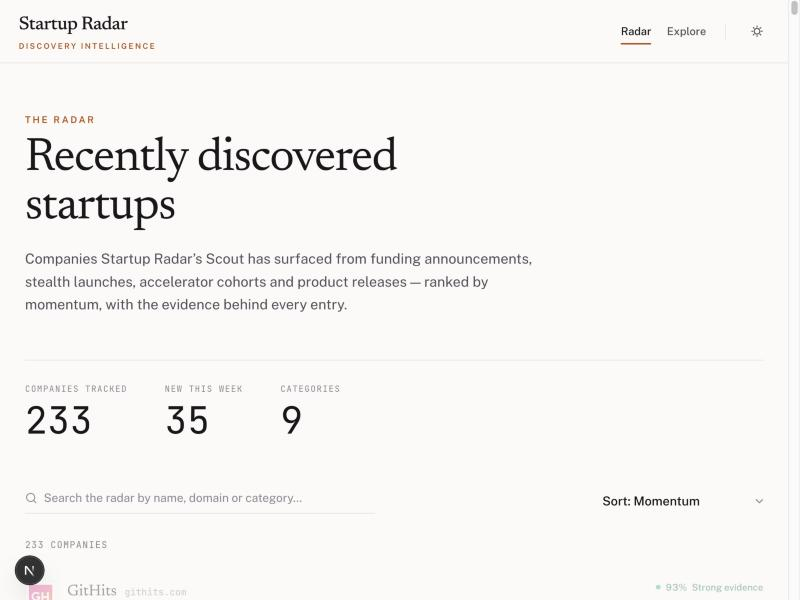
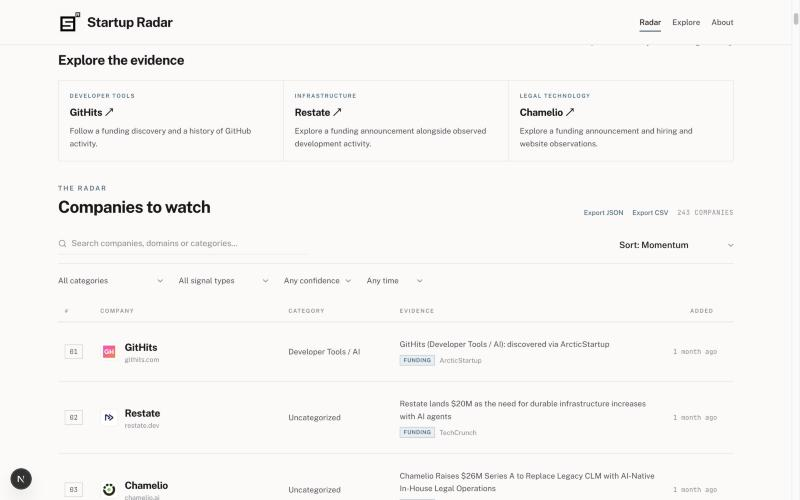
Rewrite README for clarity and confidence; refresh the Radar screenshot
Merges the terser, glossary-driven structure from the latest pass (observation/
signal/Momentum definitions, "what you can explore") with the more specific,
concrete voice from the version written for the Precursor application: the
real numbers behind the deterministic-vs-agentic pivot (~20 min/category,
~$2+ worst-case cost vs a $0.75 ceiling), and the Ande/Travix domain-guessing
mistake stated as fact rather than hedged. Also notes that the same rule
("a wrong domain is worse than a missing company") caught a real, separate
identity mismatch in production this month — ties the anecdote to something
that happened since, not just a one-time story.

Replaced docs/screenshot-radar.jpg — the old one predated the frontend
redesign and no longer matched the live site. New shot is the current Radar
table (filters, evidence column, real companies) at desktop width.

diff --git a/README.md b/README.md
@@ -1,28 +1,55 @@
 # Startup Radar
 
-Startup Radar is a tool I built to discover emerging startups and follow what they do over time. It collects companies from public sources, tracks changes in hiring, GitHub activity, and websites, and puts the evidence in a searchable directory.
+A discovery engine for emerging startups: it finds companies from public sources — funding
+announcements, accelerator cohorts, stealth launches, product releases — before they're widely
+covered, tracks what they do next (hiring, GitHub activity, website changes), and attaches a real
+evidence trail to every claim it makes. No hand-entered data, no fabricated enrichment.
 
-I wanted to explore how an investor might find early signals while building a system that is honest about what it knows. The product is a starting point for research: public sources can be incomplete, company matches can be wrong, and a signal is not an investment recommendation.
+![Startup Radar — the Radar feed](docs/screenshot-radar.jpg)
+
+This is a research tool, not investment advice — public sources can be incomplete, company
+matches can be wrong, and a signal is never a recommendation. See the [Disclaimer](#disclaimer).
 
 ## What you can explore
 
-- **Radar and Explore:** browse companies, search and filter the directory, and sort by momentum or recency.
-- **Company profiles:** see discovery events, observed activity, signals, and available source links in one place.
-- **Methodology and About:** see how the system works and read the decisions and mistakes behind it.
+- **Radar and Explore** — browse the directory, search, filter, and sort by Momentum or recency.
+- **Company profiles** — discovery events, tracked signals, and the real source link behind each one.
+- **Methodology and About** — how the system works, and the decisions (and a mistake) behind it.
 
-An observation is a recorded measurement; a signal is a finding derived from observations. Momentum weights distinct signals by recency. A first observation establishes a baseline, so it shouldn't be mistaken for a change.
+An **observation** is a recorded measurement; a **signal** is a finding derived from comparing
+observations over time. **Momentum** is a recency-weighted count of distinct signals — never a
+hidden score. A company's *first* observation establishes a baseline, not a change — Signal
+Intelligence is explicit about which is which.
 
-## Two things I learned building it
+## Two decisions worth knowing about
 
-**Discovery needed a tighter process.** My first approach used Claude with web search to find and verify companies. A real run took around 20 minutes for one category, and the estimated worst-case cost was over $2 against a $0.75 budget. I replaced that discovery path with source feeds, extraction rules, entity matching, and ranking. The current discovery pipeline does not make LLM calls; a static test checks that boundary. The earlier approach remains in the repository for reference.
+**Deterministic over agentic.** The first version of the discovery engine used one Claude call per
+category — web search and web fetch to both find and verify candidates. It worked, but one category
+took ~20 minutes on a real run, and the worst-case cost per request ran to ~$2+ against a $0.75
+budget ceiling. An open-ended agentic loop can't run daily under a fixed, honest cost ceiling. So
+discovery is now a fully deterministic pipeline — real RSS/directory feeds, rule-based extraction
+and ranking, zero LLM calls anywhere in the path, enforced by a static test. It runs daily,
+unattended, for effectively free. AI is reserved for narrow, bounded judgment calls on evidence the
+pipeline has already surfaced — not for finding the evidence in the first place.
 
-**A matching result is not necessarily the right company.** I once shipped a feature that guessed domains from company names and checked whether the name appeared on the resulting homepage. An audit found two wrong matches among the first ten: Ande matched an unrelated DNA-testing company, and Travix matched an unrelated travel company. The check had confirmed a name collision, not the startup's identity. I reverted the feature. That experience changed how I think about missing data: I'd rather leave a domain unresolved than attach the wrong company to it.
+**A mistake I shipped, caught, and reverted.** A feature once guessed a company's domain from its
+name and verified the guess by checking whether the company's name appeared on the resulting
+homepage. A precision audit found two of the first ten guesses were wrong in a specific, bad way: a
+funded startup called *Ande* matched `ande.com` — actually ANDE, an unrelated forensic DNA-testing
+company. A startup called *Travix* matched `travix.com` — an unrelated 450-employee travel agency.
+Both passed because the real, different company's own homepage naturally contains its own name —
+the check proved a name collision, not an identity match. The feature was reverted completely. The
+rule that came out of it: **a wrong domain is worse than a missing company.** An unresolved match is
+the correct outcome when evidence is thin, not a bug to paper over — a rule a later audit confirmed
+is still worth following: it caught a real, separate identity mismatch in production in November.
 
-The [About page](frontend/src/app/about/page.tsx) goes into more detail on both decisions.
+The full writeup — what I'd do differently if I started over, and why I'm interested in both AI
+operations and evaluating startups — is on the site itself: run it locally (below) and open `/about`.
 
 ## Run the frontend
 
-You'll need Node.js 24 or newer. The frontend can run with a labeled sample dataset without database credentials:
+You'll need Node.js 24 or newer. It runs against a clearly-labeled sample dataset with no database
+credentials needed:
 
 ```bash
 cd frontend
@@ -30,26 +57,54 @@ npm ci
 npm run dev
 ```
 
-Open the local address printed in the terminal. To use your own Supabase data, copy `frontend/.env.local.example` to `frontend/.env.local` and fill in the URL and service-role key. Keep the key server-side and out of version control. See the [frontend README](frontend/README.md) for more detail.
+Open the local address printed in the terminal (usually <http://localhost:3000>). To use your own
+Supabase data, copy `frontend/.env.local.example` to `frontend/.env.local` and set `SUPABASE_URL`
+and `SUPABASE_SERVICE_ROLE_KEY` — both server-only, never exposed to the browser. See
+[`frontend/README.md`](frontend/README.md) for the full setup and structure.
 
-## How it works
+## How it's built
 
-1. Source providers collect public items from RSS, Google News, and accelerator directories.
-2. The discovery pipeline extracts and clusters candidates, resolves identities where it can, and ranks them using rules. Controlled writes add selected companies and discovery events.
-3. Signal collectors revisit companies and record hiring, GitHub, and website observations. Rules turn qualifying changes into signals.
-4. The Next.js frontend reads the resulting data from Supabase and presents it alongside the available evidence.
+```
+Source providers (RSS / Google News / YC / Techstars)
+        │  SourceItem
+        ▼
+Deterministic extraction + prefilter + entity clustering     — regex/heuristic, NO LLM
+        ▼
+Existing-company matching + domain resolution                — read-only against Supabase
+        ▼
+Deterministic ranking (8 weighted, logged components)
+        ▼
+Two-track finalist selection (news / directory)
+        ▼
+Controlled writes — new companies + their initial events only, under hard per-run caps
+        ▼
+Signal Intelligence — hiring (ATS), GitHub, website-structure observers, revisited daily
+```
 
-Scheduled GitHub Actions workflows run discovery and signal collection. The source coverage and matching rules have limits, so results still need review. A failed observation is treated as unknown rather than zero, and website changes require confirmation across observations.
+| Area | What it is |
+|---|---|
+| `src/funnel/` | The deterministic discovery pipeline — extraction, prefiltering, clustering, domain resolution, ranking. Zero LLM calls, enforced by a static guard test. |
+| `src/sources/` | Source providers (RSS feeds, Google News, YC/Techstars directories) and the one shared, polite HTTP fetcher everything goes through. |
+| `src/discovery/` | The one controlled write path for new companies — hard caps, no retries without an idempotency key, "zero writes" is a valid outcome. |
+| `src/signals/` | Hiring/GitHub/website observation, append-only, with a non-negotiable rule: a metric that couldn't be observed is *unknown*, never defaulted to zero. |
+| `src/eval/` | Offline evaluation of the discovery pipeline against hand-labeled recall targets. |
+| `frontend/` | The Next.js product surface — Radar feed, Explore, Company Detail, Methodology, About. Read-only against Supabase; never writes, never calls an LLM. |
+| `.github/workflows/` | The two daily scheduled jobs (discovery, signal observation) that run all of the above unattended. |
 
-The main parts of the repository are:
+A fuller, still-current architecture doc — including the two phases this project went through and
+why Phase 1 (an earlier, Claude-web-search-based discovery approach, kept in `src/main.ts` for
+reference) was replaced — lives in [`CLAUDE.md`](CLAUDE.md).
 
-- `src/sources/` and `src/funnel/`: source collection, extraction, matching, and ranking.
-- `src/discovery/` and `src/signals/`: controlled discovery writes and signal collection.
-- `src/eval/`: offline evaluation of the discovery pipeline.
-- `frontend/`: the read-only Next.js application.
-- `.github/workflows/`: scheduled jobs and checks.
+## Non-negotiables this codebase enforces, not just documents
 
-[`CLAUDE.md`](CLAUDE.md) contains more project context and historical implementation notes.
+- No LLM call anywhere under `src/funnel/`, `src/sources/`, or `src/eval/` — a static test fails
+  the build if one appears.
+- Exactly two files in the whole codebase may write to the database, each one checked by a test
+  that inspects every write call by table name.
+- A metric a collector couldn't observe is written as *missing*, never as zero — regression tests
+  hold this line.
+- A guessed company domain may only be accepted with independent corroborating evidence, never on
+  the company's name alone — see the About page for the real case this rule came from.
 
 ## Checks
 
@@ -71,4 +126,8 @@ npm run lint
 npm run build
 ```
 
-Startup Radar is an evidence-tracking project, not financial or investment advice.
+## Disclaimer
+
+Startup Radar is an evidence-tracking tool, not financial or investment advice. Confidence and
+Momentum describe how well-evidenced and how active something appears in public sources — not a
+recommendation to invest in, work for, or partner with any company it lists.
